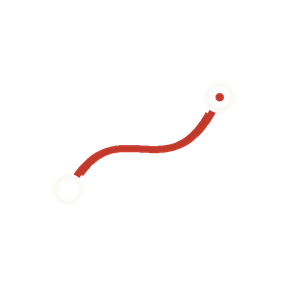
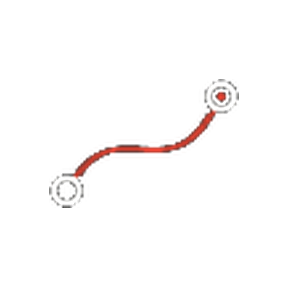
hs(H5.10): 换用新图标（红线更细更短的一版）
- 新增 scripts/make-icon.py：以 harmony-icon/01-source.png 为准生成鸿蒙图标
  （背景取底色 #2B2B2B、前景按「与底色差」软 alpha 抠出白环+红线并放进 64% 安全区）；
- module.json5 的能力图标从 layered_image 改为单片 $media:app_icon（系统套圆角蒙版，
  避免分层前景小图放大发虚）；
- AppScope/entry 的 app_icon.png(216)、startIcon.png(144)、background/foreground.png 全部重生成；
- harmony-icon/ 里同步一份新图与脚本，便于以后直接改图。

Changed region(s): [[0.1562, 0.25, 0.8438, 0.75]]

diff --git a/harmony-icon/sync-icon.py b/harmony-icon/sync-icon.py
@@ -1,0 +1,154 @@
+# -*- coding: utf-8 -*-
+"""把 Windows 版图标同步成鸿蒙的分层图标（H5.7）。
+
+来源：src-tauri/icons/icon.png（512×512，深色圆角方块 + 点阵网格 + 两个白色圆环 + 红色曲线）。
+产出：
+- entry/src/main/resources/base/media/background.png  纯色底（取自图标方块的底色）
+- entry/src/main/resources/base/media/foreground.png  只留「圆环 + 红线」的透明前景（安全区 64%）
+- entry/src/main/resources/base/media/startIcon.png   启动图标（合成后 144×144）
+- AppScope/resources/base/media/app_icon.png          应用图标（合成后 216×216）
+
+判据：前景 = 亮度够高（白环）或红色占优（红线/红点），点阵网格的暗灰点被丢掉。
+"""
+from pathlib import Path
+
+from PIL import Image, ImageDraw
+
+ROOT = Path(__file__).resolve().parents[3]
+SRC = ROOT / "src-tauri" / "icons" / "icon.png"
+# 中间那条红线整体缩到原尺寸的 88%（用户要求「红线部分缩小一点」）
+RED_SCALE = 0.94
+# 端点圆头半径（像素，源图 512 基准）
+RED_CAP = 7
+MEDIA = ROOT / "platforms" / "harmony" / "entry" / "src" / "main" / "resources" / "base" / "media"
+APPSCOPE = ROOT / "platforms" / "harmony" / "AppScope" / "resources" / "base" / "media"
+
+
+def is_ink(pixel: tuple[int, int, int]) -> bool:
+    r, g, b = pixel[:3]
+    lum = 0.299 * r + 0.587 * g + 0.114 * b
+    if lum > 100:
+        return True
+    return r > 80 and r > g + 30 and r > b + 30
+
+
+def is_red(pixel: tuple[int, int, int]) -> bool:
+    r, g, b = pixel[:3]
+    return r > 80 and r > g + 30 and r > b + 30
+
+
+def main() -> None:
+    src = Image.open(SRC).convert("RGBA")
+    w, h = src.size
+
+    # 底色：取图标方块内部（避开圆角与网格点）的一点
+    bg = src.getpixel((w // 2, int(h * 0.06)))[:3]
+
+    fg = Image.new("RGBA", (w, h), (0, 0, 0, 0))
+    fg_px = fg.load()
+    src_px = src.load()
+    red = Image.new("RGBA", (w, h), (0, 0, 0, 0))
+    red_px = red.load()
+    for y in range(h):
+        for x in range(w):
+            px = src_px[x, y]
+            if px[3] == 0:
+                continue
+            if is_ink(px):
+                fg_px[x, y] = (px[0], px[1], px[2], px[3])
+                if is_red(px):
+                    red_px[x, y] = (px[0], px[1], px[2], px[3])
+
+    # 用户要求：中间那条红线整体缩小一点，白环与环心红点保持原样。
+    # 红色像素里既有「曲线」也有「两个圆环的红色圆心」，所以先按连通域分开，
+    # 只把最大那块（曲线）按自身包围盒中心等比缩 RED_SCALE，再把圆心原样贴回。
+    import numpy as np
+
+    arr = np.array(red)
+    mask = arr[:, :, 3] > 40
+    seen = np.zeros_like(mask, dtype=bool)
+    comps: list[list[tuple[int, int]]] = []
+    ys, xs = np.nonzero(mask)
+    for x0, y0 in zip(xs.tolist(), ys.tolist()):
+        if seen[y0, x0]:
+            continue
+        stack = [(x0, y0)]
+        seen[y0, x0] = True
+        comp: list[tuple[int, int]] = []
+        while stack:
+            cx0, cy0 = stack.pop()
+            comp.append((cx0, cy0))
+            for dx in (-1, 0, 1):
+                for dy in (-1, 0, 1):
+                    nx, ny = cx0 + dx, cy0 + dy
+                    if 0 <= nx < w and 0 <= ny < h and mask[ny, nx] and not seen[ny, nx]:
+                        seen[ny, nx] = True
+                        stack.append((nx, ny))
+        comps.append(comp)
+
+    if comps:
+        curve = max(comps, key=len)
+        keep = np.zeros((h, w), dtype=bool)
+        for comp in comps:
+            if comp is curve:
+                continue
+            for cx0, cy0 in comp:
+                keep[cy0, cx0] = True
+
+        curve_mask = np.zeros((h, w), dtype=bool)
+        for cx0, cy0 in curve:
+            curve_mask[cy0, cx0] = True
+
+        curve_layer = Image.new("RGBA", (w, h), (0, 0, 0, 0))
+        curve_layer.paste(Image.fromarray(np.where(curve_mask[:, :, None], arr, 0).astype("uint8"), "RGBA"), (0, 0))
+        box = curve_layer.getbbox()
+        if box is not None:
+            piece = curve_layer.crop(box)
+            shrunk = piece.resize(
+                (max(1, int(piece.width * RED_SCALE)), max(1, int(piece.height * RED_SCALE))),
+                Image.LANCZOS,
+            )
+            cx = (box[0] + box[2]) // 2
+            cy = (box[1] + box[3]) // 2
+            rebuilt = Image.new("RGBA", (w, h), (0, 0, 0, 0))
+            rebuilt.alpha_composite(shrunk, (cx - shrunk.width // 2, cy - shrunk.height // 2))
+            # 环心红点原样贴回
+            keep_layer = Image.fromarray(np.where(keep[:, :, None], arr, 0).astype("uint8"), "RGBA")
+            rebuilt = Image.alpha_composite(rebuilt, keep_layer)
+            red = rebuilt
+
+    fg = Image.alpha_composite(fg, red)
+
+    bbox = fg.getbbox()
+    if bbox is None:
+        raise SystemExit("前景提取失败：没有找到白色圆环或红线")
+    fg = fg.crop(bbox)
+
+    def compose(size: int, ratio: float) -> Image.Image:
+        canvas = Image.new("RGBA", (size, size), (bg[0], bg[1], bg[2], 255))
+        inner = int(round(size * ratio))
+        art = fg.copy()
+        art.thumbnail((inner, inner), Image.LANCZOS)
+        canvas.alpha_composite(art, ((size - art.width) // 2, (size - art.height) // 2))
+        return canvas
+
+    MEDIA.mkdir(parents=True, exist_ok=True)
+    APPSCOPE.mkdir(parents=True, exist_ok=True)
+
+    # 分层图标：背景纯色 + 前景（安全区 64%）
+    background = Image.new("RGBA", (288, 288), (bg[0], bg[1], bg[2], 255))
+    background.save(MEDIA / "background.png")
+    foreground = Image.new("RGBA", (288, 288), (0, 0, 0, 0))
+    art = fg.copy()
+    art.thumbnail((int(288 * 0.64), int(288 * 0.64)), Image.LANCZOS)
+    foreground.alpha_composite(art, ((288 - art.width) // 2, (288 - art.height) // 2))
+    foreground.save(MEDIA / "foreground.png")
+
+    compose(144, 0.58).save(MEDIA / "startIcon.png")
+    compose(216, 0.66).save(APPSCOPE / "app_icon.png")
+
+    print(f"icon synced: bg=#{bg[0]:02X}{bg[1]:02X}{bg[2]:02X} ink_bbox={bbox} fg={fg.size}")
+
+
+if __name__ == "__main__":
+    main()

diff --git a/harmony-icon/make-icon.py b/harmony-icon/make-icon.py
@@ -1,0 +1,103 @@
+# -*- coding: utf-8 -*-
+"""用用户给的新图（harmony-icon/01-source.png，144×144）重做鸿蒙图标。
+
+产出（直接写进鸿蒙工程）：
+- entry/src/main/resources/base/media/background.png  纯色底（取自新图底色）
+- entry/src/main/resources/base/media/foreground.png  只留「白环 + 红线」的透明前景（安全区 64%）
+- entry/src/main/resources/base/media/startIcon.png   启动图 144×144（新图原样）
+- AppScope/resources/base/media/app_icon.png          应用图标 216×216（新图放大到 216）
+
+新图是「成品单片图」：深色方底 + 两个白环 + 红色曲线（右环有红心）。
+所以前景层只做「去掉底色」的抠图，位置与比例跟原图保持一致，不再二次缩放红线。
+"""
+from pathlib import Path
+
+from PIL import Image
+
+ROOT = Path(__file__).resolve().parents[3]
+SOURCE = ROOT / "harmony-icon" / "01-source.png"
+if not SOURCE.is_file():
+    SOURCE = Path(__file__).resolve().parent / "icon-source.png"
+MEDIA = ROOT / "platforms" / "harmony" / "entry" / "src" / "main" / "resources" / "base" / "media"
+APPSCOPE = ROOT / "platforms" / "harmony" / "AppScope" / "resources" / "base" / "media"
+
+# 前景（白环 + 红线）在 288 画布里的占比：鸿蒙分层图标安全区约 64%，略留一点余量
+FG_RATIO = 0.66
+# 背景层与 app_icon 的圆角半径（按 288 基准算，和系统默认圆角接近；app_icon 由系统再蒙版）
+BG_RADIUS = 0
+
+
+def is_ink(px: tuple[int, int, int]) -> bool:
+    """白环（亮度高）或红线（红色占优）算前景；深色底与抗锯齿边缘不算。"""
+    r, g, b = px[:3]
+    lum = 0.299 * r + 0.587 * g + 0.114 * b
+    if lum > 110:
+        return True
+    return r > 90 and r > g + 35 and r > b + 35
+
+
+def main() -> None:
+    src = Image.open(SOURCE).convert("RGBA")
+    w, h = src.size
+
+    # 底色：四角里最暗且不透明的那个（避开可能的圆角透明区）
+    bg = src.getpixel((w // 2, 2))[:3]
+    for spot in ((2, 2), (w - 3, 2), (2, h - 3), (w // 2, h // 2)):
+        px = src.getpixel(spot)
+        if px[3] > 200:
+            bg = px[:3]
+            break
+
+    # 前景 = 「与底色差得够远」的像素，按差值给软 alpha，边缘才不会有锯齿
+    fg = Image.new("RGBA", (w, h), (0, 0, 0, 0))
+    fg_px = fg.load()
+    src_px = src.load()
+    for y in range(h):
+        for x in range(w):
+            r, g, b, a = src_px[x, y]
+            if a <= 8:
+                continue
+            dist = max(abs(r - bg[0]), abs(g - bg[1]), abs(b - bg[2]))
+            if dist <= 18:
+                continue
+            alpha = 255 if dist >= 60 else int(255 * (dist - 18) / 42)
+            fg_px[x, y] = (r, g, b, max(0, min(255, alpha)))
+
+    bbox = fg.getbbox()
+    if bbox is None:
+        raise SystemExit("前景提取失败：新图里没找到白环/红线")
+    art = fg.crop(bbox)
+
+    MEDIA.mkdir(parents=True, exist_ok=True)
+    APPSCOPE.mkdir(parents=True, exist_ok=True)
+
+    # 背景层：纯色
+    background = Image.new("RGBA", (288, 288), (bg[0], bg[1], bg[2], 255))
+    background.save(MEDIA / "background.png")
+
+    # 前景层：等比放大/缩小到安全区（64%），居中
+    inner = int(round(288 * FG_RATIO))
+    scale = min(inner / art.width, inner / art.height)
+    piece = art.resize(
+        (max(1, round(art.width * scale)), max(1, round(art.height * scale))), Image.LANCZOS
+    )
+    foreground = Image.new("RGBA", (288, 288), (0, 0, 0, 0))
+    foreground.alpha_composite(piece, ((288 - piece.width) // 2, (288 - piece.height) // 2))
+    foreground.save(MEDIA / "foreground.png")
+
+    # 应用图标：单片图（系统套圆角蒙版）—— 模块里也放一份，module.json5 直接引用它
+    app_icon = src.resize((216, 216), Image.LANCZOS)
+    app_icon.save(APPSCOPE / "app_icon.png")
+    app_icon.save(MEDIA / "app_icon.png")
+
+    # 启动图：新图原样（144）
+    src.resize((144, 144), Image.LANCZOS).save(MEDIA / "startIcon.png")
+
+    print(
+        f"icon replaced: bg=#{bg[0]:02X}{bg[1]:02X}{bg[2]:02X} "
+        f"ink_bbox={bbox} art={art.size} fg={piece.size}"
+    )
+
+
+if __name__ == "__main__":
+    main()

diff --git a/platforms/harmony/scripts/make-icon.py b/platforms/harmony/scripts/make-icon.py
@@ -1,0 +1,103 @@
+# -*- coding: utf-8 -*-
+"""用用户给的新图（harmony-icon/01-source.png，144×144）重做鸿蒙图标。
+
+产出（直接写进鸿蒙工程）：
+- entry/src/main/resources/base/media/background.png  纯色底（取自新图底色）
+- entry/src/main/resources/base/media/foreground.png  只留「白环 + 红线」的透明前景（安全区 64%）
+- entry/src/main/resources/base/media/startIcon.png   启动图 144×144（新图原样）
+- AppScope/resources/base/media/app_icon.png          应用图标 216×216（新图放大到 216）
+
+新图是「成品单片图」：深色方底 + 两个白环 + 红色曲线（右环有红心）。
+所以前景层只做「去掉底色」的抠图，位置与比例跟原图保持一致，不再二次缩放红线。
+"""
+from pathlib import Path
+
+from PIL import Image
+
+ROOT = Path(__file__).resolve().parents[3]
+SOURCE = ROOT / "harmony-icon" / "01-source.png"
+if not SOURCE.is_file():
+    SOURCE = Path(__file__).resolve().parent / "icon-source.png"
+MEDIA = ROOT / "platforms" / "harmony" / "entry" / "src" / "main" / "resources" / "base" / "media"
+APPSCOPE = ROOT / "platforms" / "harmony" / "AppScope" / "resources" / "base" / "media"
+
+# 前景（白环 + 红线）在 288 画布里的占比：鸿蒙分层图标安全区约 64%，略留一点余量
+FG_RATIO = 0.66
+# 背景层与 app_icon 的圆角半径（按 288 基准算，和系统默认圆角接近；app_icon 由系统再蒙版）
+BG_RADIUS = 0
+
+
+def is_ink(px: tuple[int, int, int]) -> bool:
+    """白环（亮度高）或红线（红色占优）算前景；深色底与抗锯齿边缘不算。"""
+    r, g, b = px[:3]
+    lum = 0.299 * r + 0.587 * g + 0.114 * b
+    if lum > 110:
+        return True
+    return r > 90 and r > g + 35 and r > b + 35
+
+
+def main() -> None:
+    src = Image.open(SOURCE).convert("RGBA")
+    w, h = src.size
+
+    # 底色：四角里最暗且不透明的那个（避开可能的圆角透明区）
+    bg = src.getpixel((w // 2, 2))[:3]
+    for spot in ((2, 2), (w - 3, 2), (2, h - 3), (w // 2, h // 2)):
+        px = src.getpixel(spot)
+        if px[3] > 200:
+            bg = px[:3]
+            break
+
+    # 前景 = 「与底色差得够远」的像素，按差值给软 alpha，边缘才不会有锯齿
+    fg = Image.new("RGBA", (w, h), (0, 0, 0, 0))
+    fg_px = fg.load()
+    src_px = src.load()
+    for y in range(h):
+        for x in range(w):
+            r, g, b, a = src_px[x, y]
+            if a <= 8:
+                continue
+            dist = max(abs(r - bg[0]), abs(g - bg[1]), abs(b - bg[2]))
+            if dist <= 18:
+                continue
+            alpha = 255 if dist >= 60 else int(255 * (dist - 18) / 42)
+            fg_px[x, y] = (r, g, b, max(0, min(255, alpha)))
+
+    bbox = fg.getbbox()
+    if bbox is None:
+        raise SystemExit("前景提取失败：新图里没找到白环/红线")
+    art = fg.crop(bbox)
+
+    MEDIA.mkdir(parents=True, exist_ok=True)
+    APPSCOPE.mkdir(parents=True, exist_ok=True)
+
+    # 背景层：纯色
+    background = Image.new("RGBA", (288, 288), (bg[0], bg[1], bg[2], 255))
+    background.save(MEDIA / "background.png")
+
+    # 前景层：等比放大/缩小到安全区（64%），居中
+    inner = int(round(288 * FG_RATIO))
+    scale = min(inner / art.width, inner / art.height)
+    piece = art.resize(
+        (max(1, round(art.width * scale)), max(1, round(art.height * scale))), Image.LANCZOS
+    )
+    foreground = Image.new("RGBA", (288, 288), (0, 0, 0, 0))
+    foreground.alpha_composite(piece, ((288 - piece.width) // 2, (288 - piece.height) // 2))
+    foreground.save(MEDIA / "foreground.png")
+
+    # 应用图标：单片图（系统套圆角蒙版）—— 模块里也放一份，module.json5 直接引用它
+    app_icon = src.resize((216, 216), Image.LANCZOS)
+    app_icon.save(APPSCOPE / "app_icon.png")
+    app_icon.save(MEDIA / "app_icon.png")
+
+    # 启动图：新图原样（144）
+    src.resize((144, 144), Image.LANCZOS).save(MEDIA / "startIcon.png")
+
+    print(
+        f"icon replaced: bg=#{bg[0]:02X}{bg[1]:02X}{bg[2]:02X} "
+        f"ink_bbox={bbox} art={art.size} fg={piece.size}"
+    )
+
+
+if __name__ == "__main__":
+    main()
